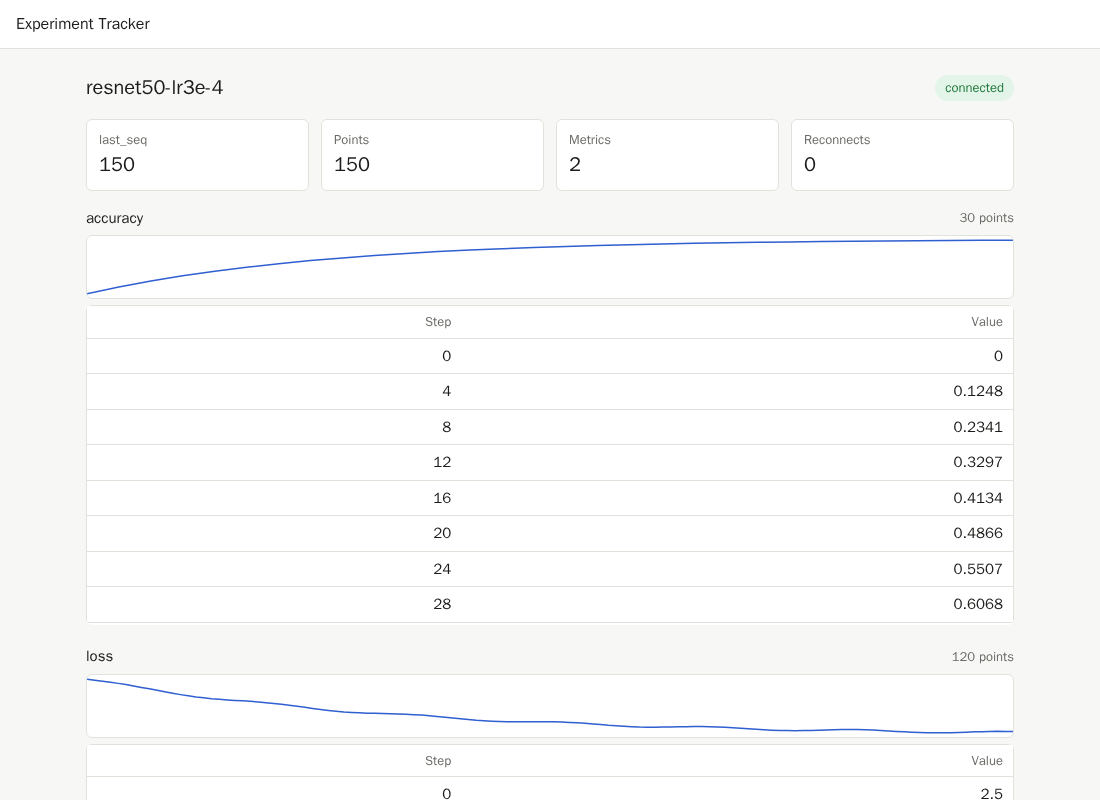
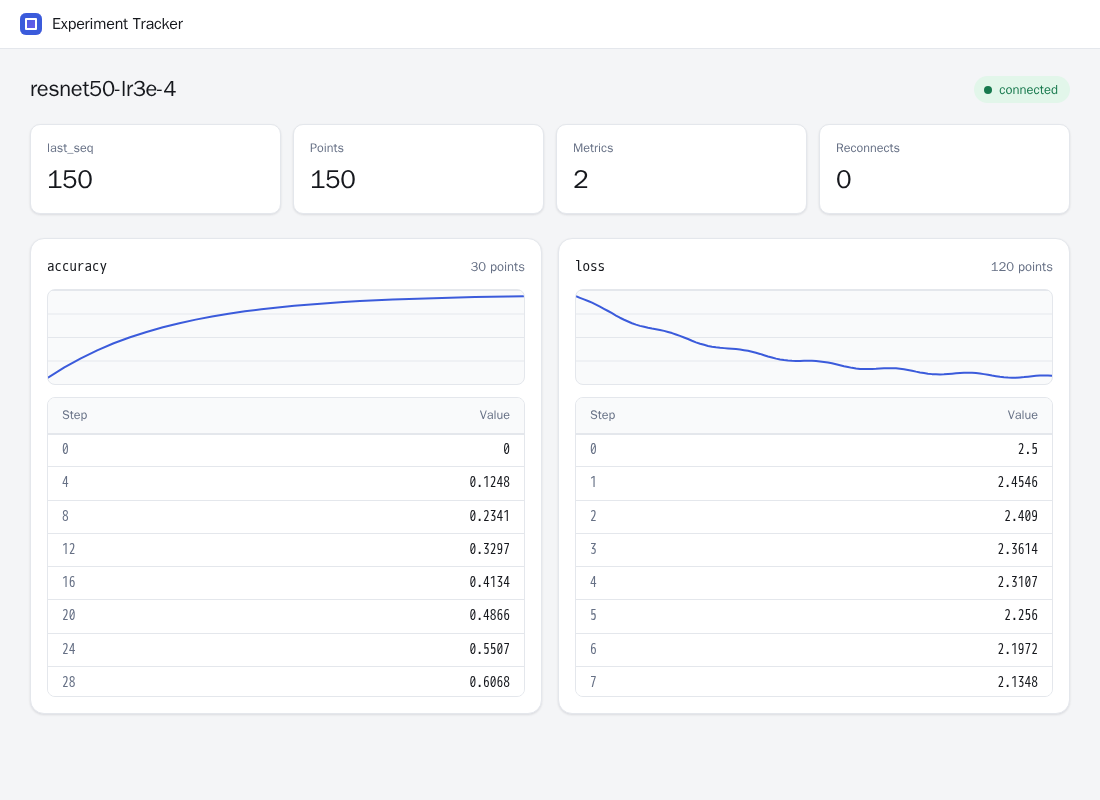
Restyle the UI (CSS only), regenerate screenshots
Metric cards in a grid, status badge with a dot, light and dark palettes,
login as a card. HTML, JS and test selectors are unchanged. Full suite
rerun on the new stylesheet: 106 passed.

diff --git a/app/static/style.css b/app/static/style.css
@@ -1,102 +1,254 @@
+/* One stylesheet, no build step, no external assets (the CSP allows nothing else).
+   No text-transform anywhere: tests read text off the page exactly as the data has it. */
 :root {
-  --bg: #f7f7f5;
+  --bg: #f4f5f7;
   --panel: #ffffff;
-  --text: #1c1c1a;
-  --muted: #6b6b66;
-  --line: #e2e2dd;
-  --accent: #2f5fd0;
-  --ok: #1f7a3d;
-  --ok-bg: #e3f4e8;
+  --panel-2: #f9fafb;
+  --text: #16181d;
+  --muted: #667085;
+  --line: #e4e7ec;
+  --accent: #3b5bdb;
+  --accent-strong: #2f4ac0;
+  --accent-soft: #edf1ff;
+  --on-accent: #ffffff;
+  --ok: #18794e;
+  --ok-bg: #e2f6ea;
   --warn: #8a5a00;
-  --warn-bg: #fdf0d2;
-  --bad: #a3261c;
-  --bad-bg: #fbe4e1;
+  --warn-bg: #fdf1d3;
+  --bad: #b3261e;
+  --bad-bg: #fde7e4;
+  --shadow: 0 1px 2px rgba(16, 24, 40, 0.05), 0 1px 3px rgba(16, 24, 40, 0.06);
+  --radius: 10px;
+  --mono: ui-monospace, "SF Mono", "JetBrains Mono", Menlo, Consolas, monospace;
 }
 @media (prefers-color-scheme: dark) {
   :root {
-    --bg: #161614;
-    --panel: #1f1f1c;
-    --text: #ecece8;
-    --muted: #9a9a93;
-    --line: #33332f;
-    --accent: #8aa9f5;
-    --ok: #7fd49a;
-    --ok-bg: #17331f;
-    --warn: #f0c466;
-    --warn-bg: #3a2d0c;
-    --bad: #f19a90;
-    --bad-bg: #3d1a16;
+    --bg: #0f1115;
+    --panel: #171a21;
+    --panel-2: #1c2029;
+    --text: #e8eaf0;
+    --muted: #98a2b3;
+    --line: #2a2f3a;
+    --accent: #8da2fb;
+    --accent-strong: #a9b9ff;
+    --accent-soft: #1d2440;
+    --on-accent: #0f1115;
+    --ok: #6fdc9f;
+    --ok-bg: #12301f;
+    --warn: #f2c66d;
+    --warn-bg: #382b0b;
+    --bad: #ff9b91;
+    --bad-bg: #3c1815;
+    --shadow: 0 1px 2px rgba(0, 0, 0, 0.4);
   }
 }
 
 * { box-sizing: border-box; }
+html { -webkit-text-size-adjust: 100%; }
 body {
   margin: 0;
+  min-height: 100vh;
   background: var(--bg);
   color: var(--text);
-  font: 15px/1.5 system-ui, -apple-system, "Segoe UI", sans-serif;
+  font: 15px/1.5 system-ui, -apple-system, "Segoe UI", Roboto, sans-serif;
+  -webkit-font-smoothing: antialiased;
 }
-a { color: var(--accent); }
+a { color: var(--accent); text-decoration: none; }
+a:hover { text-decoration: underline; }
+:focus-visible { outline: 2px solid var(--accent); outline-offset: 2px; }
+[hidden] { display: none !important; }
+
+/* --- top bar --- */
 .top {
+  position: sticky;
+  top: 0;
+  z-index: 2;
   display: flex;
   align-items: center;
   justify-content: space-between;
-  padding: 12px 16px;
+  gap: 12px;
+  padding: 12px 20px;
   border-bottom: 1px solid var(--line);
   background: var(--panel);
 }
-.top h1 { margin: 0; font-size: 16px; }
-.top h1 a { color: inherit; text-decoration: none; }
-main { max-width: 960px; margin: 0 auto; padding: 16px; }
-h2 { margin: 0; font-size: 20px; overflow-wrap: anywhere; }
-h3 { margin: 0; font-size: 15px; overflow-wrap: anywhere; }
-.row { display: flex; flex-wrap: wrap; align-items: center; justify-content: space-between; gap: 12px; margin: 8px 0 16px; }
+.top h1 {
+  display: flex;
+  align-items: center;
+  gap: 10px;
+  margin: 0;
+  font-size: 16px;
+  font-weight: 650;
+  letter-spacing: -0.01em;
+}
+.top h1::before {
+  content: "";
+  width: 22px;
+  height: 22px;
+  border-radius: 6px;
+  background: linear-gradient(135deg, var(--accent), #7c5cf0);
+  box-shadow: inset 0 0 0 5px var(--accent), inset 0 0 0 7px var(--on-accent);
+}
+.top h1 a { color: inherit; }
+.top h1 a:hover { text-decoration: none; }
+
+main { max-width: 1080px; margin: 0 auto; padding: 24px 20px 48px; }
+h2 { margin: 0; font-size: 22px; font-weight: 650; letter-spacing: -0.015em; overflow-wrap: anywhere; }
+h3 { margin: 0; font-size: 15px; font-weight: 600; font-family: var(--mono); overflow-wrap: anywhere; }
+.row { display: flex; flex-wrap: wrap; align-items: center; justify-content: space-between; gap: 12px; margin: 0 0 18px; }
+
+/* --- forms --- */
 form { display: flex; flex-wrap: wrap; gap: 8px; }
 .row form { flex: 1 1 320px; max-width: 440px; }
 .row form input { flex: 1 1 140px; }
 input {
   min-width: 0;
   flex: 1 1 220px;
-  padding: 8px 10px;
+  padding: 9px 12px;
   border: 1px solid var(--line);
-  border-radius: 6px;
+  border-radius: 8px;
   background: var(--panel);
   color: var(--text);
   font: inherit;
+  transition: border-color 0.12s, box-shadow 0.12s;
 }
+input::placeholder { color: var(--muted); }
+input:focus { outline: none; border-color: var(--accent); box-shadow: 0 0 0 3px var(--accent-soft); }
 button {
-  padding: 8px 14px;
+  padding: 9px 16px;
   border: 1px solid var(--accent);
-  border-radius: 6px;
+  border-radius: 8px;
   background: var(--accent);
-  color: var(--panel);
+  color: var(--on-accent);
   font: inherit;
+  font-weight: 600;
   cursor: pointer;
+  transition: background 0.12s, border-color 0.12s;
 }
-button.link { border: 0; background: none; color: var(--accent); padding: 4px; }
-.hint { color: var(--muted); }
-.error { color: var(--bad); background: var(--bad-bg); padding: 8px 12px; border-radius: 6px; }
-[hidden] { display: none !important; }
+button:hover { background: var(--accent-strong); border-color: var(--accent-strong); }
+button.link { border: 0; background: none; color: var(--muted); padding: 4px 6px; font-weight: 500; }
+button.link:hover { color: var(--text); background: none; }
 
-table { width: 100%; border-collapse: collapse; background: var(--panel); border: 1px solid var(--line); border-radius: 6px; }
-th, td { padding: 6px 10px; text-align: left; border-bottom: 1px solid var(--line); overflow-wrap: anywhere; }
-th { font-weight: 600; color: var(--muted); font-size: 13px; }
+.hint { color: var(--muted); font-size: 14px; }
+.error {
+  margin: 12px 0;
+  padding: 10px 14px;
+  border: 1px solid var(--bad);
+  border-radius: 8px;
+  background: var(--bad-bg);
+  color: var(--bad);
+}
+
+/* --- login card --- */
+#login-section {
+  max-width: 460px;
+  margin: 9vh auto 0;
+  padding: 28px;
+  border: 1px solid var(--line);
+  border-radius: 14px;
+  background: var(--panel);
+  box-shadow: var(--shadow);
+}
+#login-section h2 { margin-bottom: 16px; font-size: 20px; }
+#login-section input { font-family: var(--mono); }
+#login-section .hint { margin: 14px 0 0; }
+
+/* --- tables --- */
+table {
+  width: 100%;
+  border-collapse: separate;
+  border-spacing: 0;
+  background: var(--panel);
+  border: 1px solid var(--line);
+  border-radius: var(--radius);
+  overflow: hidden;
+}
+th, td { padding: 8px 14px; text-align: left; border-bottom: 1px solid var(--line); overflow-wrap: anywhere; }
+th { font-weight: 600; color: var(--muted); font-size: 12.5px; background: var(--panel-2); }
 tr:last-child td { border-bottom: 0; }
-.num { text-align: right; font-variant-numeric: tabular-nums; }
+tbody tr:hover td { background: var(--accent-soft); }
+.num { text-align: right; font-family: var(--mono); font-size: 13.5px; font-variant-numeric: tabular-nums; }
+th.num { font-family: inherit; font-size: 12.5px; }
 
-.badge { padding: 3px 10px; border-radius: 999px; font-size: 13px; font-weight: 600; background: var(--warn-bg); color: var(--warn); }
+#runs-table { box-shadow: var(--shadow); }
+#runs-table td:first-child { font-weight: 600; }
+#runs-table td:nth-child(2) { color: var(--muted); font-size: 14px; }
+#runs-empty {
+  padding: 32px 16px;
+  border: 1px dashed var(--line);
+  border-radius: var(--radius);
+  text-align: center;
+}
+
+/* --- run page: status and numbers --- */
+.badge {
+  display: inline-flex;
+  align-items: center;
+  gap: 7px;
+  padding: 4px 12px 4px 10px;
+  border-radius: 999px;
+  font-size: 13px;
+  font-weight: 600;
+  background: var(--warn-bg);
+  color: var(--warn);
+}
+.badge::before { content: ""; width: 8px; height: 8px; border-radius: 50%; background: currentColor; }
+.badge[data-status="connecting"]::before, .badge[data-status="reconnecting"]::before { animation: pulse 1s ease-in-out infinite; }
 .badge[data-status="connected"] { background: var(--ok-bg); color: var(--ok); }
 .badge[data-status="unauthorized"], .badge[data-status="not_found"] { background: var(--bad-bg); color: var(--bad); }
+@keyframes pulse { 50% { opacity: 0.25; } }
+@media (prefers-reduced-motion: reduce) { .badge::before { animation: none !important; } }
 
-.stats { display: flex; flex-wrap: wrap; gap: 12px; margin: 0 0 16px; }
-.stats div { flex: 1 1 120px; padding: 10px 12px; background: var(--panel); border: 1px solid var(--line); border-radius: 6px; }
-.stats dt { color: var(--muted); font-size: 13px; }
-.stats dd { margin: 0; font-size: 20px; font-variant-numeric: tabular-nums; }
+.stats { display: grid; grid-template-columns: repeat(auto-fit, minmax(140px, 1fr)); gap: 12px; margin: 0 0 24px; }
+.stats div {
+  padding: 14px 16px;
+  background: var(--panel);
+  border: 1px solid var(--line);
+  border-radius: var(--radius);
+  box-shadow: var(--shadow);
+}
+.stats dt { color: var(--muted); font-size: 12.5px; font-weight: 600; }
+.stats dd { margin: 2px 0 0; font-size: 26px; font-weight: 650; letter-spacing: -0.02em; font-variant-numeric: tabular-nums; }
 
-.metric { margin: 0 0 20px; }
-.metric-head { display: flex; flex-wrap: wrap; align-items: center; justify-content: space-between; gap: 12px; margin-bottom: 6px; }
+#empty {
+  padding: 40px 16px;
+  border: 1px dashed var(--line);
+  border-radius: var(--radius);
+  text-align: center;
+}
+
+/* --- run page: one card per metric --- */
+#metrics { display: grid; grid-template-columns: repeat(auto-fit, minmax(min(100%, 420px), 1fr)); gap: 16px; align-items: start; }
+.metric {
+  min-width: 0;
+  padding: 16px;
+  background: var(--panel);
+  border: 1px solid var(--line);
+  border-radius: 14px;
+  box-shadow: var(--shadow);
+}
+.metric-head { display: flex; flex-wrap: wrap; align-items: baseline; justify-content: space-between; gap: 12px; margin-bottom: 12px; }
 .metric-head .count { color: var(--muted); font-size: 13px; }
-.spark { width: 100%; height: 64px; display: block; background: var(--panel); border: 1px solid var(--line); border-radius: 6px; margin-bottom: 6px; }
-.spark polyline { fill: none; stroke: var(--accent); stroke-width: 1.5; vector-effect: non-scaling-stroke; }
-.table-wrap { max-height: 320px; overflow: auto; border-radius: 6px; }
-.table-wrap thead th { position: sticky; top: 0; background: var(--panel); }
+.spark {
+  width: 100%;
+  height: 96px;
+  display: block;
+  margin-bottom: 12px;
+  border: 1px solid var(--line);
+  border-radius: 8px;
+  background:
+    linear-gradient(var(--line) 1px, transparent 1px) 0 0 / 100% 25%,
+    var(--panel-2);
+}
+.spark polyline { fill: none; stroke: var(--accent); stroke-width: 2; stroke-linejoin: round; stroke-linecap: round; vector-effect: non-scaling-stroke; }
+.table-wrap { max-height: 300px; overflow: auto; border: 1px solid var(--line); border-radius: 8px; }
+.table-wrap table { border: 0; border-radius: 0; }
+.table-wrap thead th { position: sticky; top: 0; box-shadow: 0 1px 0 var(--line); }
+.table-wrap th:first-child, .table-wrap td:first-child { text-align: left; width: 40%; color: var(--muted); }
+.table-wrap td { padding: 6px 14px; }
+
+@media (max-width: 560px) {
+  main { padding: 16px 14px 40px; }
+  .top { padding: 10px 14px; }
+  #login-section { margin-top: 24px; padding: 20px; }
+  .stats dd { font-size: 22px; }
+}

diff --git a/AI_USAGE.md b/AI_USAGE.md
@@ -163,3 +163,11 @@ Asked for by the author after the security review listed it as the first open it
 | Default of 600 requests/s per project, chosen to sit above the assignment's own workload (500 requests/s with batch size 1), so the load test still measures the server and not the limiter. It is above what one process can serve, which SECURITY.md says plainly. | pending review | load test rerun with the limiter on: 0 errors (`results/load.txt`) |
 | Limiters are switched off on the test service by environment and switched on per test through a TEST_MODE hook; a separate test checks that the normal service has them on by default. | pending review | `…plain_service_limits_failed_credentials_without_any_hook`: 40 bad keys → 20 × 401, 20 × 429 |
 | Not done: shared state across workers (would need Redis or a proxy), limits on unauthenticated endpoints, trusting `X-Forwarded-For`. | — | SECURITY.md, open item 1 |
+
+## UI restyle (2026-11-11)
+
+Asked for by the author ("make the design nicer") after everything else was done.
+
+| Suggestion by AI | Status | Verified how |
+|---|---|---|
+| Rewrite `app/static/style.css` only: metric cards in a grid, status badge with a dot, light and dark palettes, login as a card. HTML, JS and every selector the tests use are unchanged; no external fonts or images (the CSP forbids them); no `text-transform`, because tests read text off the page. | pending review | full suite rerun on the new stylesheet: 106 passed; screenshots regenerated in `results/screens/` |

diff --git a/CLAUDE.md b/CLAUDE.md
@@ -324,6 +324,10 @@ Update the checkboxes and the "State notes" below at the end of every working se
   (p99 11.0 ms), batch=1 316.2 req/s, 0 errors. Five single runs of batch=1 over two days:
   309.8, 277, 281, 256.4, 316.2: the spread is the machine, not the code. Do not read a
   10 % difference between two single runs as a regression. `load_workers4.txt` is old code.
+- 2026-11-11 (evening): UI restyle, CSS only (`app/static/style.css`); HTML, JS and test
+  selectors untouched. Suite rerun on it: 106 passed; `results/test_output.txt` was kept at the
+  committed run because NOTE.md quotes it. Screenshots regenerated. Keep the stylesheet free of
+  `text-transform` (tests read text off the page) and of external assets (CSP).
 - Project skills: 10 third-party skills in `.claude/skills/` (git-ignored; source and commit in
   AI_USAGE.md). They are generic checklists. Do not run their `scripts/` (not installed, not
   reviewed) and do not install the other 808.
